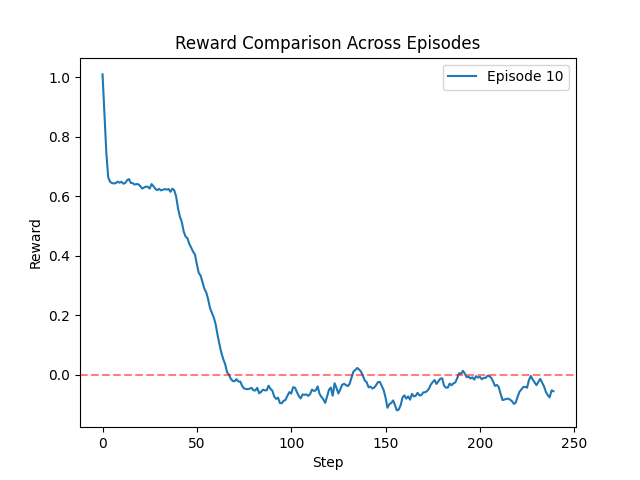
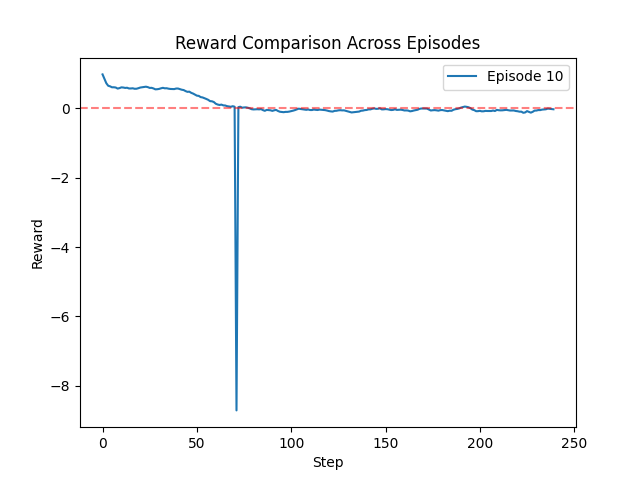
windows end of tuesday

diff --git a/single_ramp/train.py b/single_ramp/train.py
@@ -53,7 +53,7 @@ def train(use_replacement, seed, num_episodes, dynamic_norm):
     line, ax, fig = init_plot(use_replacement)
     all_scores, history_steps, history_lengths, history_tts = [], [], [], []
     history_actions, history_replacement, history_lb = [], [], []
-    # reward_history = {}
+    reward_history = {}
     cumulative_steps = 0
 
     for episode in range(1, num_episodes+1):
@@ -102,20 +102,20 @@ def train(use_replacement, seed, num_episodes, dynamic_norm):
 
         # Save checkpoints
         if episode % 10 == 0:
-            # reward_history[episode] = rewards.copy()
+            reward_history[episode] = rewards.copy()
 
-            # fig_reward, ax_reward = plt.subplots()
+            fig_reward, ax_reward = plt.subplots()
 
-            # for ep, rew in reward_history.items():
-            #     ax_reward.plot(np.arange(len(rew)), rew, label=f"Episode {ep}")
+            for ep, rew in reward_history.items():
+                ax_reward.plot(np.arange(len(rew)), rew, label=f"Episode {ep}")
 
-            # ax_reward.legend()
-            # ax_reward.axhline(0, linestyle="--", color="r", alpha=0.5)
-            # ax_reward.set_xlabel("Step")
-            # ax_reward.set_ylabel("Reward")
-            # ax_reward.set_title("Reward Comparison Across Episodes")
-            # fig_reward.savefig(os.path.join("plots", f"rewards_episode{episode}.png"))
-            # plt.close(fig_reward)
+            ax_reward.legend()
+            ax_reward.axhline(0, linestyle="--", color="r", alpha=0.5)
+            ax_reward.set_xlabel("Step")
+            ax_reward.set_ylabel("Reward")
+            ax_reward.set_title("Reward Comparison Across Episodes")
+            fig_reward.savefig(os.path.join("plots", f"rewards_episode{episode}.png"))
+            plt.close(fig_reward)
 
             torch.save(agent.state_dict(), os.path.join(model_dir, f"model_ep{episode}.pth"))
             with open(os.path.join(model_dir, f"state_tracker_ep{episode}.pkl"), "wb") as f:

diff --git a/single_ramp/config.py b/single_ramp/config.py
@@ -3,13 +3,13 @@ import numpy as np
 
 # Constants for the Store-and-Forward Model
 W_MAX = 42.0
-ALPHA = 0.9
+ALPHA = 0.85
 R_MIN_RATIO = 0.1
 RAMP_CAPACITY_VEH_S = 1930.0 / 3600.0
 
 MAX_SPEED = 27.78
-MAX_TTS = 4098.0
-AVG_TTS = 3457.55
+MAX_TTS = 4242.0
+AVG_TTS = 3560.33
 TLS_ID = "junction_ramp"
 SUMO_PATH = os.path.join("sumo_network", "data", "simulation.sumocfg")
 
@@ -24,8 +24,8 @@ RAMP_ARR_DETS = [f"det_ramp_arr_{i}" for i in range(2)]
 RAMP_DEP_DETS = [f"det_ramp_dep_{i}" for i in range(2)]
 RAMP_DETS = ["det_ramp_queue_0", "det_ramp_queue_1"]
 
-STATE_MEANS = np.asarray([20.3471, 18.1585, 1.9217, 8.4116, 26.6432, 4.4006, 3.4375, 0.3303, 0.33,7.5])
-STATE_STDS = np.asarray([6.9003, 4.5178, 0.1949, 1.289, 0.2667, 0.5689, 0.9812, 0.0775, 0.079, 7.5])
+STATE_MEANS = np.asarray([20.554, 18.0392, 1.9333, 8.6758, 26.1541, 4.4272, 0.1375, 0.3375, 0.3394, 7.5])
+STATE_STDS = np.asarray([7.0051, 4.3702, 0.2053, 1.3078, 0.3666, 0.5736, 0.7316, 0.1372, 0.1332, 7.5])
 
 REPLACEMENT_HISTORY_PATH = os.path.join("..", "models_replacement", "training_history_replacement_seed42.pkl")
 BASELINE_HISTORY_PATH = os.path.join("..", "models", "training_history_baseline_seed42.pkl")
@@ -34,4 +34,4 @@ MAIN_T = [0, 600, 600.1, 3300, 3301, 4200]
 MAIN_VEH = [7400, 7400, 7900, 7900, 4000, 4000]
 
 RAMP_T = [0, 600, 600.1, 3300, 3600, 4200]
-RAMP_VEH = [600, 1000, 1400, 1400, 500, 500]
+RAMP_VEH = [600, 1000, 1300, 1300, 500, 500]

diff --git a/single_ramp/runner.py b/single_ramp/runner.py
@@ -27,12 +27,9 @@ def run_episode(env, controller, control_steps, sim_steps_per_control, is_traini
         reward = (MAX_TTS - step_tts) / AVG_TTS
         current_queue = raw_state[6]
 
-        # use_replacement = getattr(controller, 'use_replacement', False)
         if replaced:
             penalty = calculate_penalty(current_queue, raw_state[7], action_ratio)
             reward = reward - penalty
-        # elif not use_replacement:
-        #     reward = reward - (current_queue*0.01)
 
         # 3. Get next state
         next_state_dict = env.get_traffic_state(sim_steps_per_control)

diff --git a/single_ramp/controllers.py b/single_ramp/controllers.py
@@ -67,7 +67,7 @@ class RLController(BaseController):
         lower_bound = calculate_lower_bound(prev_demand, curr_queue)
         replaced = int(action_ratio < lower_bound)
 
-        if self.use_replacement:
+        if self.use_replacement and replaced:
             action_ratio = max(action_ratio, lower_bound)
 
-        return action_ratio, log_prob, value, action, state_tensor, (replaced, lower_bound)
+        return action_ratio, log_prob, value.item(), action, state_tensor, (replaced, lower_bound)

diff --git a/single_ramp/evaluate_model.py b/single_ramp/evaluate_model.py
@@ -13,7 +13,7 @@ from utils import normalize_static
 from model import SharedActorCritic
 
 def run_evaluation(model_path=None, tracker_path=None, use_replacement=False, no_control=False, alinea=False):
-    sumo_cmd = ["sumo", "-c", SUMO_PATH, "--no-step-log", "true"]
+    sumo_cmd = ["sumo-gui", "-c", SUMO_PATH, "--no-step-log", "true"]
 
     env = RampMeterEnv(
         sumo_cmd=sumo_cmd, tls_id=TLS_ID, upstream_dets=UPSTREAM_DETS,

diff --git a/single_ramp/action_replacement.py b/single_ramp/action_replacement.py
@@ -1,4 +1,3 @@
-
 from config import RAMP_CAPACITY_VEH_S, SIM_STEPS_PER_CONTROL, W_MAX, ALPHA, R_MIN_RATIO
 
 def calculate_lower_bound(demand_prev_veh_s, current_queue):
